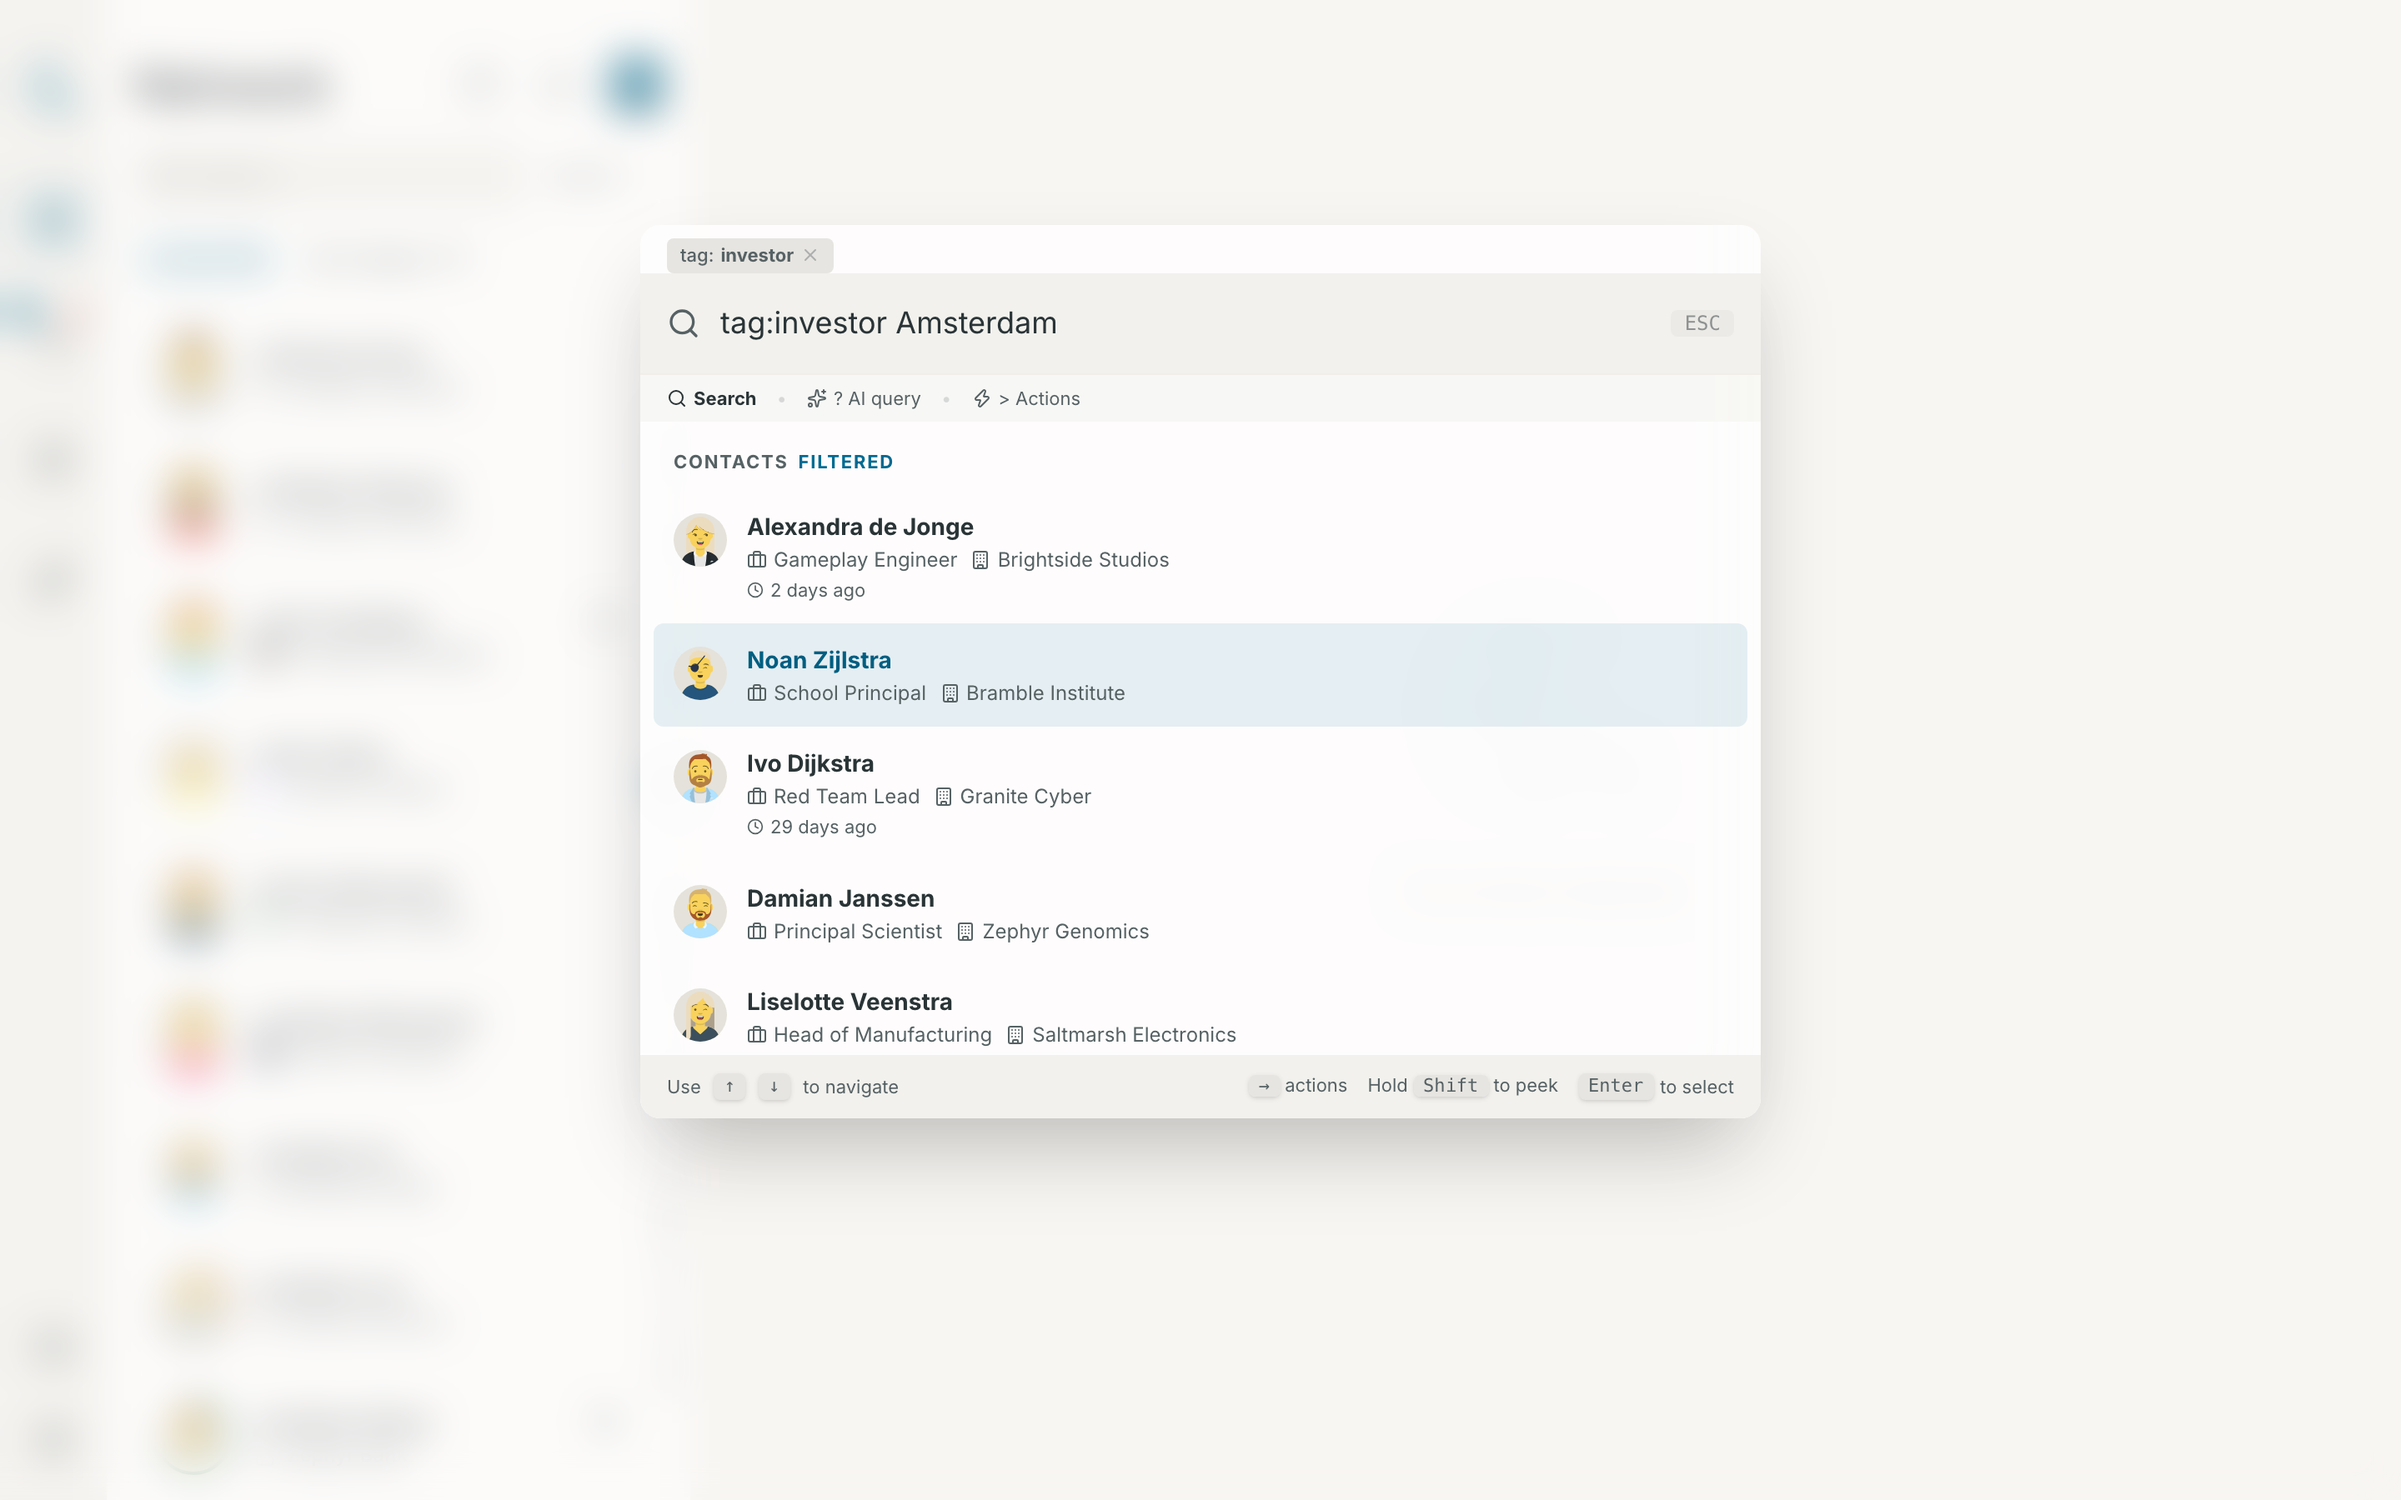
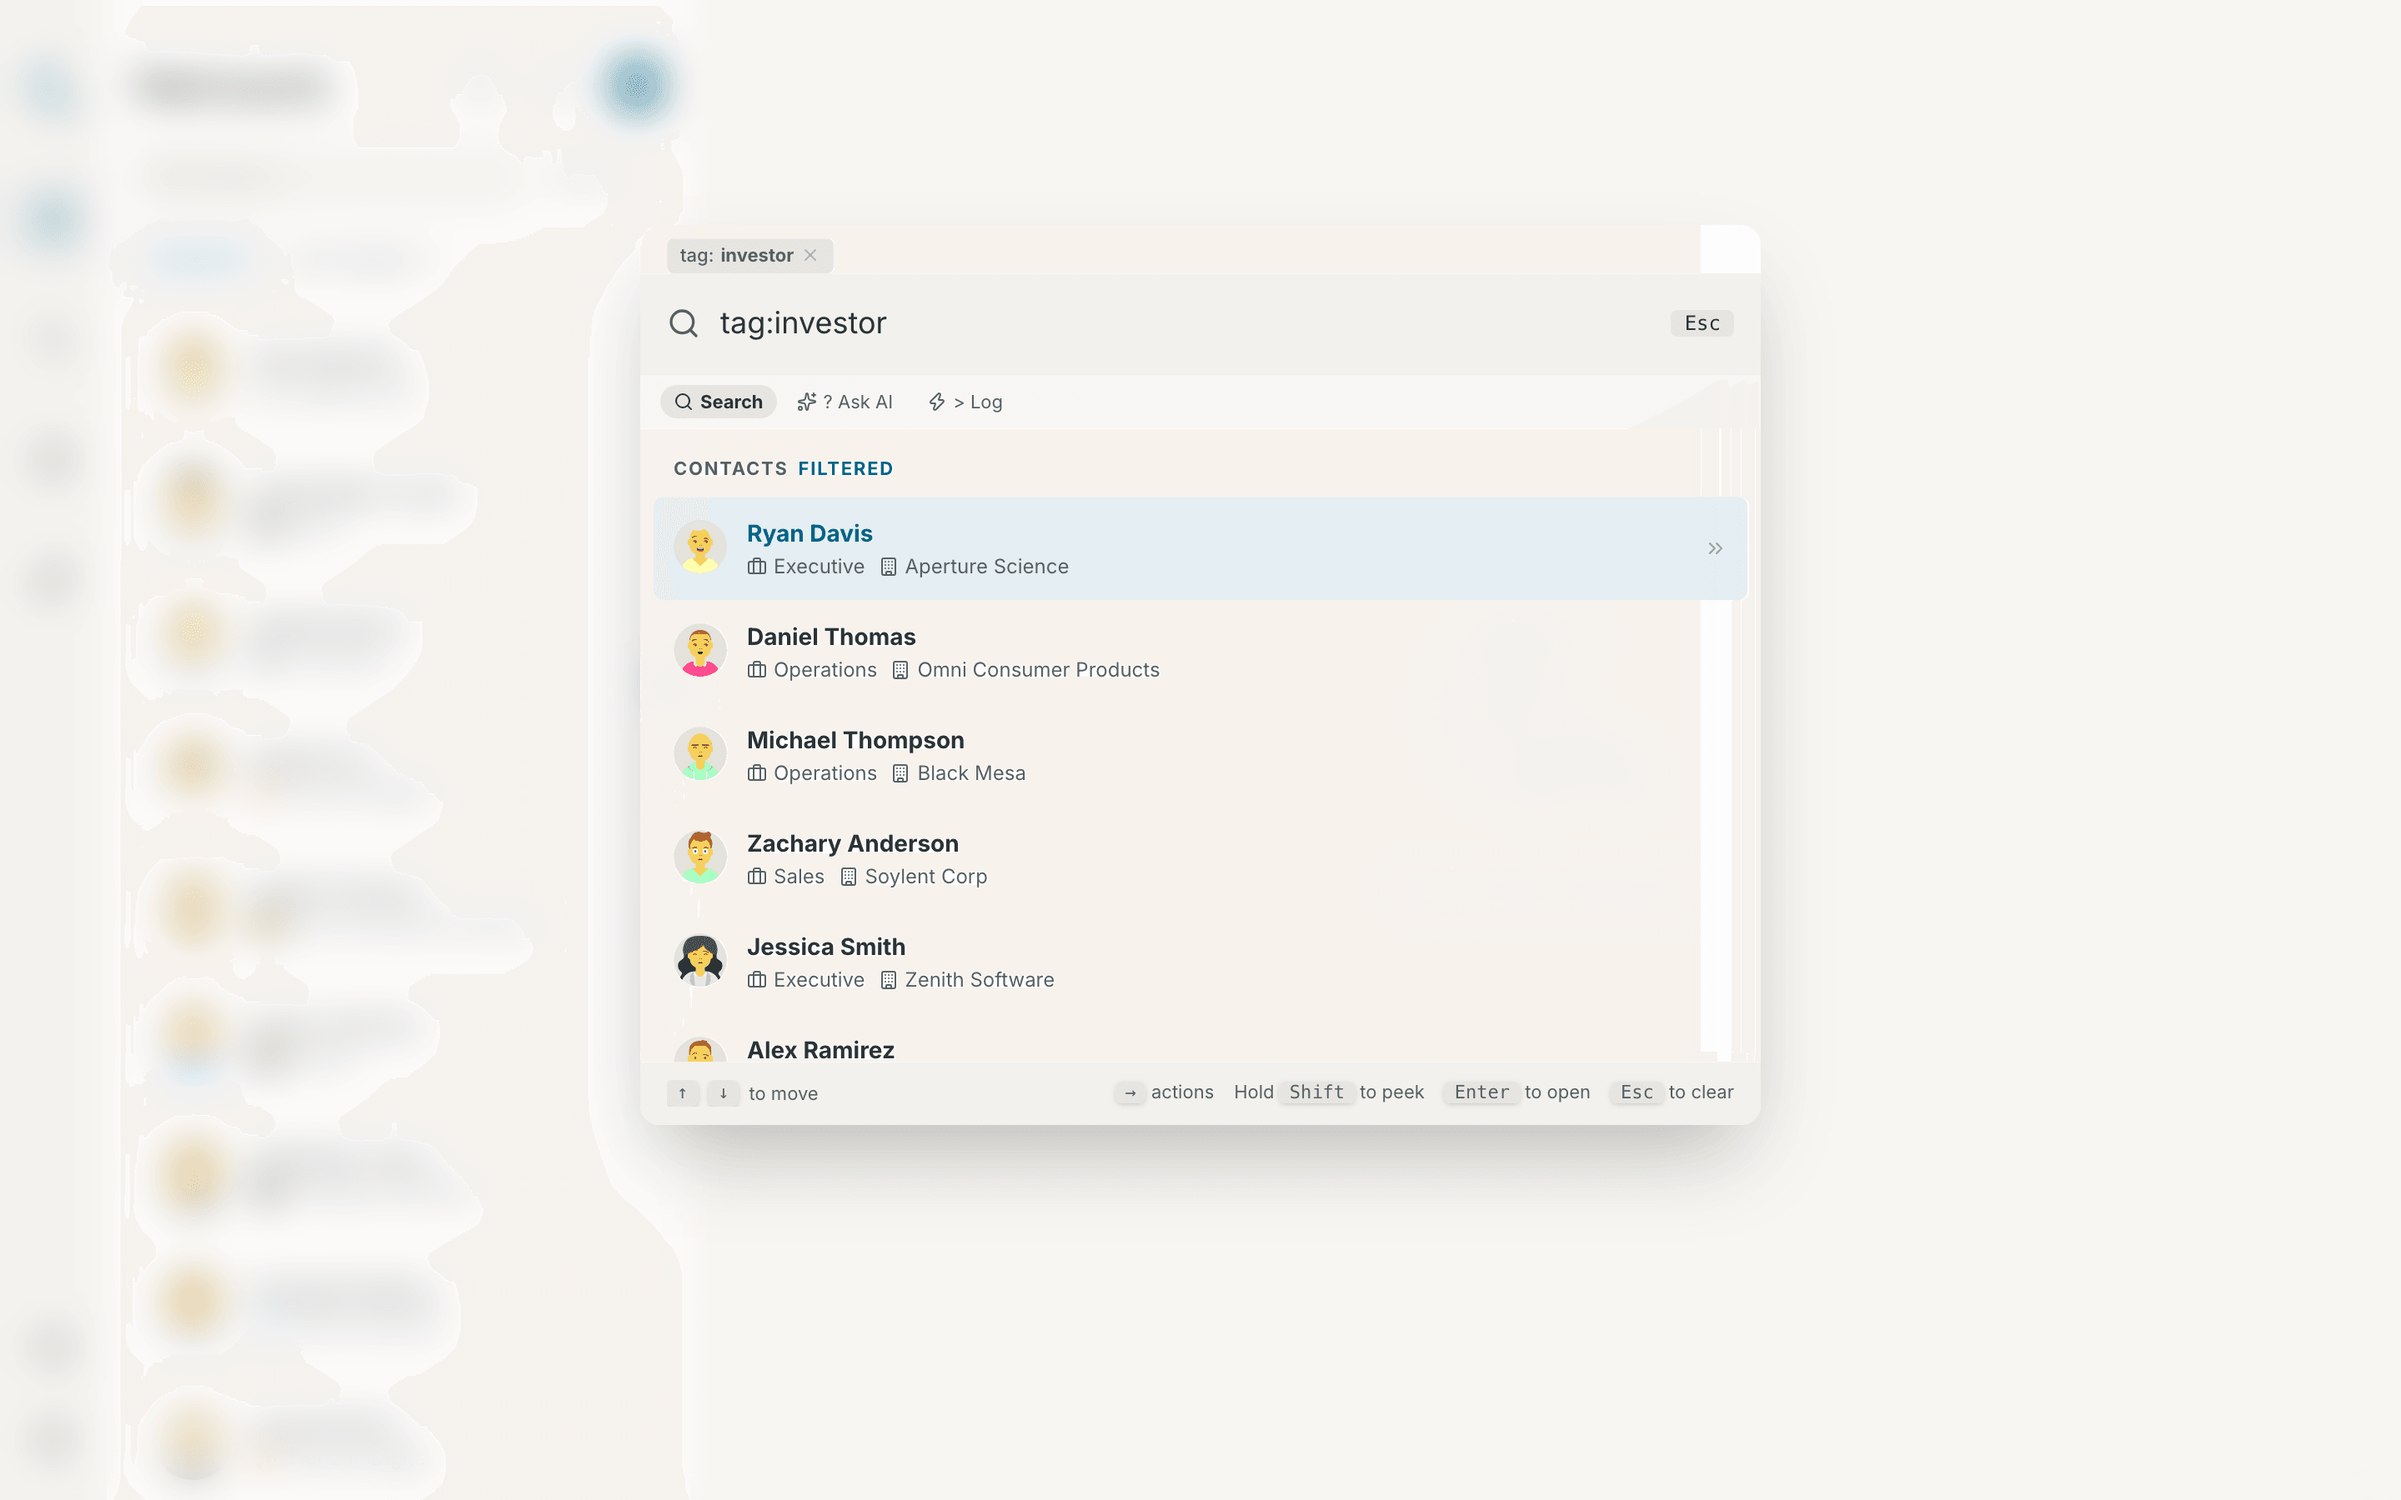
The palette keeps its top row in view with pills alone, and the docs show the new palette
- With pills and no words, the palette listed the five destinations under the people. While a facet was half typed they were the only rows, and once the pill locked cmdk scrolled to the destination it had chosen, past the top row. The destinations now come up only for typed words, and the highlighted row is kept in view when the keys or the palette move it, not the pointer.
- The two palette screenshots, in docs/search.md and the README, show the mode chips, the contextual footer and no "instant" mark.
- The Home and End test waits for the server's people before it moves the highlight.

diff --git a/src/components/command-palette/CommandPalette.tsx b/src/components/command-palette/CommandPalette.tsx
@@ -122,6 +122,8 @@ export const CommandPalette = () => {
   const [facetMenuDismissed, setFacetMenuDismissed] = useState(false);
   /** The person moved the highlight since the query last changed. */
   const movedHighlightRef = useRef(false);
+  /** The pointer, not a key, moved it last: the list does not scroll. */
+  const pointerMovedRef = useRef(false);
   const navigate = useNavigate();
 
   // ── Mode detection ──
@@ -549,6 +551,7 @@ export const CommandPalette = () => {
 
   const handleSearchInputKeyDown = useCallback(
     (e: React.KeyboardEvent) => {
+      pointerMovedRef.current = false;
       // The actions menu took the key: ↑ and ↓ move its rows.
       if (e.defaultPrevented) return;
       // Backspace on empty input deletes the last facet pill
@@ -709,7 +712,8 @@ export const CommandPalette = () => {
    * screen reader announces. cmdk works it out before the rows show a new
    * highlight, so it was missing on open, after typing and after the
    * server's answer, until an arrow key was pressed. This follows the rows
-   * themselves, and puts it back when cmdk writes a stale one.
+   * themselves, and puts it back when cmdk writes a stale one. It keeps the
+   * row in view as well.
    *
    * The list mounts a render after the palette opens, inside a portal, so
    * this runs after every render and watches the nodes it finds.
@@ -720,10 +724,20 @@ export const CommandPalette = () => {
     if (!input || !list) return;
     const sync = () => {
       const row = list.querySelector('[cmdk-item][aria-selected="true"]');
-      if (!row?.id) input.removeAttribute("aria-activedescendant");
-      else if (input.getAttribute("aria-activedescendant") !== row.id) {
+      if (!row?.id) {
+        input.removeAttribute("aria-activedescendant");
+        return;
+      }
+      if (input.getAttribute("aria-activedescendant") !== row.id) {
         input.setAttribute("aria-activedescendant", row.id);
       }
+      // And in view: cmdk scrolls to the row it last chose, which can be
+      // one the highlight has already left. The top row shows its heading.
+      // Not for the pointer, as cmdk does not: a row half in view would
+      // jump under it.
+      if (pointerMovedRef.current) return;
+      if (row === list.querySelector("[cmdk-item]")) list.scrollTop = 0;
+      else row.scrollIntoView({ block: "nearest" });
     };
     sync();
     const observer = new MutationObserver(sync);
@@ -995,6 +1009,7 @@ export const CommandPalette = () => {
                     // keeps it where the pointer put it.
                     onPointerMove={() => {
                       movedHighlightRef.current = true;
+                      pointerMovedRef.current = true;
                     }}
                     className="max-h-[380px] overflow-y-auto p-2 scrollbar-hide"
                   >
@@ -1364,7 +1379,9 @@ export const CommandPalette = () => {
                           {/* Pages and Settings pages the words name:
                               "pulse" used to offer only a new contact. A
                               page named exactly comes before the people. */}
-                          {!exactPage && (
+                          {/* Only for words: with pills alone, or a facet
+                              half typed, it listed all five destinations. */}
+                          {!exactPage && typedWords && (
                             <GoToGroup
                               query={parsed.freeText}
                               onNavigate={handleNavigate}

diff --git a/tests/e2e/palette-modes.spec.ts b/tests/e2e/palette-modes.spec.ts
@@ -167,3 +167,26 @@ test("a screen reader hears how many people the list holds", async ({
   await page.keyboard.type(" zzqx");
   await expect(status).toHaveText("No people found");
 });
+
+test("pills alone list people, with the top row and its heading in view", async ({
+  page,
+}) => {
+  // While a facet was half typed, the five destinations were the only rows
+  // and one was highlighted. Once the pill locked they stayed under the
+  // people, and cmdk scrolled to the destination it had chosen, past the
+  // top row it no longer highlighted.
+  const palette = await openPalette(page);
+  await page.keyboard.type("location:London ");
+  await expect(
+    palette.getByRole("button", { name: /Remove filter location/ }),
+  ).toBeVisible();
+  await expect(palette.getByText("Ada Lovelace")).toBeVisible();
+  await expect(palette.getByText("Go to")).toHaveCount(0);
+  await expect(highlighted(palette)).toHaveText(/Ada Lovelace/);
+  await expect(
+    palette.locator("[cmdk-group-heading]").first(),
+  ).toBeInViewport();
+  expect(
+    await palette.locator("[cmdk-list]").evaluate((list) => list.scrollTop),
+  ).toBe(0);
+});

diff --git a/tests/e2e/palette-keys.spec.ts b/tests/e2e/palette-keys.spec.ts
@@ -322,6 +322,10 @@ test("Home and End move the caret when the box holds text", async ({
   const palette = await openPalette(page);
   const input = palette.getByRole("combobox");
   await page.keyboard.type("a");
+  // Once the server's people are in, so the highlighted row stays.
+  await expect(
+    palette.getByRole("status", { name: "Palette status" }),
+  ).toHaveText(/people found/);
   await page.keyboard.press("ArrowDown");
   await expect.poll(() => highlightIndex(page)).toBe(1);
 
